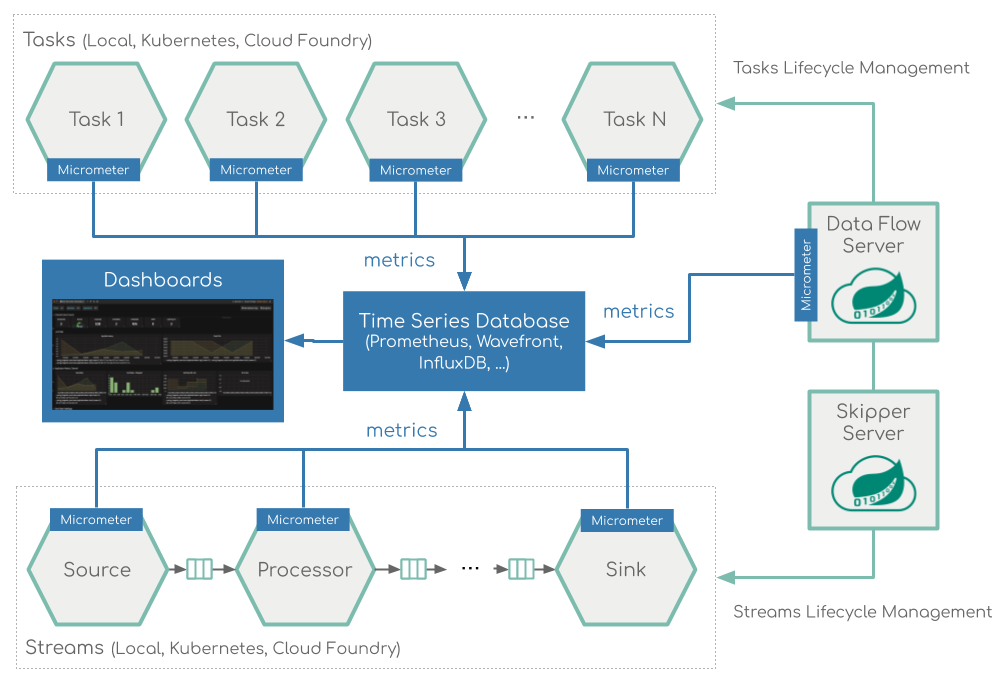
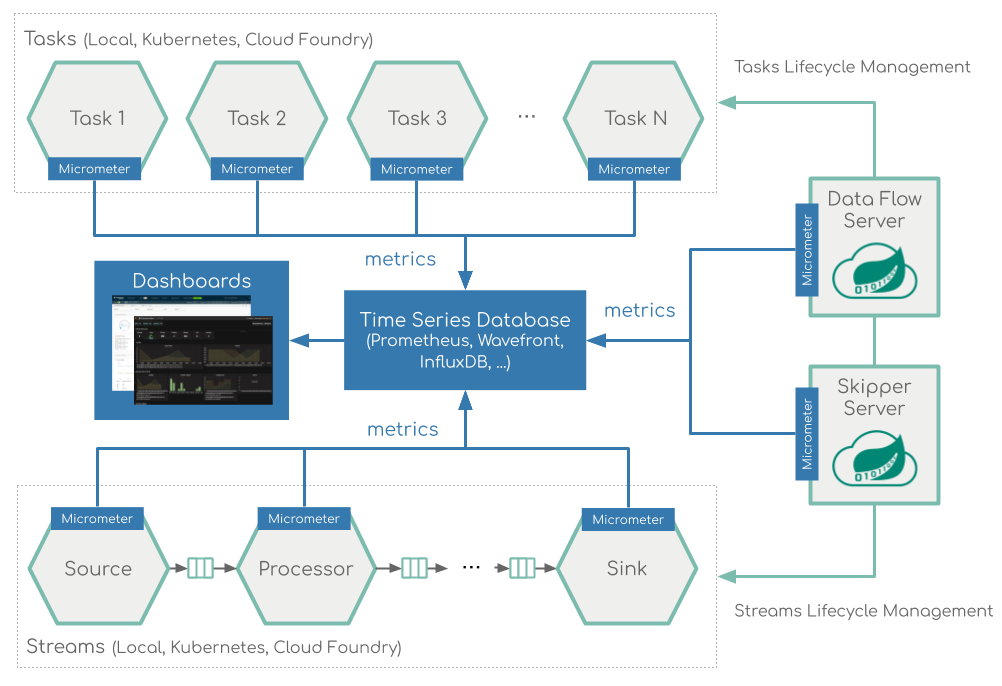
Reflect the changes in the gh-3965
- Introduce server monitoring docs
  - Simplify the monitoring configuration (leverage the configuration replication)

 Resolves #286

diff --git a/content/documentation/pages/5-feature-guides/1-general/2-server-monitoring.md b/content/documentation/pages/5-feature-guides/1-general/2-server-monitoring.md
@@ -1,24 +1,18 @@
 ---
-path: 'feature-guides/streams/monitoring/'
-title: 'Stream Monitoring'
-description: 'Monitoring streaming data pipelines with Prometheus and InfluxDB'
+path: 'feature-guides/general/monitoring/'
+title: 'Server Monitoring'
+description: 'Monitoring Data Flow and Skipper servers'
 ---
 
-# Stream Monitoring with Prometheus, Wavefront and InfluxDB
+# Server Monitoring with Prometheus, Wavefront and InfluxDB
 
-This section describes how to monitor the applications that were deployed as part of a Stream data pipeline. The setup for each platform is different, but the general architecture is the same across all the platforms.
+This section describes how to monitor the Spring Cloud Data Flow and Spring Cloud Skipper Servers. The setup for each platform is different, but the general architecture is the same across all the platforms.
 
-The Data Flow metrics architecture is designed around the [Micrometer](https://micrometer.io/) library, to provide a simple facade over the instrumentation clients for the most popular monitoring systems. See the [Micrometer documentation](https://micrometer.io/docs) for the list of supported monitoring systems. Micrometer powers the delivery of application metrics from Spring Boot. Spring Integration provides [additional micrometer integration](https://docs.spring.io/spring-integration/docs/current/reference/html/system-management.html#micrometer-integration) to expose metrics around message rates and errors, which is critical to the monitoring of deployed streams.
+The Data Flow metrics architecture is designed around the [Micrometer](https://micrometer.io/) library, to provide a simple facade over the instrumentation clients for the most popular monitoring systems. See the [Micrometer documentation](https://micrometer.io/docs) for the list of supported monitoring systems.
 
-All Spring Cloud [Stream App Starters](https://docs.spring.io/spring-cloud-dataflow/docs/current/reference/htmlsingle/#applications) and [Stream Applications](https://github.com/spring-cloud/stream-applications) are pre-configured to support three of the most popular monitoring systems, [Prometheus](https://prometheus.io/), [Wavefront](https://www.wavefront.com/) and [InfluxDB](https://www.influxdata.com/). You can declaratively select which monitoring system the deployed applications will use.
-
-To enable support for different monitoring systems, you can [customize the Stream Applications](https://docs.spring.io/spring-cloud-stream-app-starters/docs/current/reference/htmlsingle/#_patching_pre_built_applications) to use a different monitoring system.
+The Data Flow and the Skipper servers are pre-configured to support three of the most popular monitoring systems, [Prometheus](https://prometheus.io/), [Wavefront](https://www.wavefront.com/) and [InfluxDB](https://www.influxdata.com/). You can declaratively select which monitoring system the deployed applications will use.
 
 To help you get started monitoring streams, Data Flow provides [Grafana](https://grafana.com/) dashboards (for Prometheus and InfluxDB) that you can install and customize for your needs. For Wavefront, you can use the Data Flow Integration tile for a rich and comprehensive metrics visualization.
-
-The following image shows the general architecture of how streaming applications are monitored:
-
-![Stream Monitoring Architecture](images/SCDF-stream-metrics-architecture.png)
 
 <!--NOTE-->
 
@@ -26,27 +20,9 @@ Prometheus requires a Service Discovery component to automatically probe the con
 
 <!--END_NOTE-->
 
-#### Data Flow Metric Tags
-
-To allow aggregating metrics per application type and per instance or per stream, the Spring Cloud Stream Application Starters are configured to use the following Micrometer tags:
-
-- `stream.name`: The name of the Stream that contains the applications that send the metrics
-- `application.name`: The name or label of the application that reports the metrics
-- `application.type`: The type (Source, Processor, or Sink) of the application that reports the metrics
-- `application.guid`: Unique instance identifier of the application instance that reports the metrics
-- `application.index`: Application instance ID (when available)
-
-If the Data Flow server is started with the `spring.cloud.dataflow.grafana-info.url` property pointing to your Grafana URL, the Grafana feature is enabled and the Data Flow UI provides you with Grafana buttons that can open a particular dashboard for a given stream, application, or application instance. The following screenshots illustrate these buttons, look for the spiral icon.
-
-![Stream List Monitoring](images/grafana-scdf-ui-buttons-apps.png)
-
-![Runtime Applications Monitoring](images/grafana-scdf-ui-buttons-streams.png)
-
-Choosing between Wavefront, Prometheus, or InfluxDB and installing necessary components is different depending on the platform on which you run. Links to installation instructions are provided in each section below.
-
 ## Local
 
-This section describes how to view application metrics for streams using Prometheus or InfluxDB as the metrics store on your local machine. Wavefront is a cloud offering, but you still can deploy Data Flow locally can point it to a cloud-managed Wavefront monitoring system.
+This section describes how to view server metrics using Prometheus or InfluxDB as the metrics store on your local machine. Wavefront is a cloud offering, but you still can deploy Data Flow locally can point it to a cloud-managed Wavefront monitoring system.
 
 <!--TABS-->
 
@@ -67,19 +43,11 @@ You can access the Grafana dashboard at http://localhost:3000 using the credenti
 
 There are two provisioned dashboards:
 
-- Streams: http://localhost:3000/d/scdf-streams/streams?refresh=10s
-- Applications: http://localhost:3000/d/scdf-applications/applications?refresh=10s
-
-To see the dashboard in action, deploy a simple stream that uses Kafka.
-
-```bash
-dataflow:>app import --uri https://dataflow.spring.io/kafka-maven-latest --force
-dataflow:>stream create stream2 --definition "time --fixed-delay=10 --time-unit=MILLISECONDS | filter --expression=payload.contains('3') | log" --deploy
-```
+- Server: http://localhost:3000/d/scdf-servers/servers?refresh=10s
 
 You should see dashboards similar to those shown in the following image:
 
-![SCDF Grafana Prometheus](images/grafana-prometheus-scdf-applications-dashboard.png)
+![SCDF Grafana Server Prometheus](images/TODO)
 
 <!--Wavefront -->
 

diff --git a/content/documentation/pages/2-concepts/6-monitoring.md b/content/documentation/pages/2-concepts/6-monitoring.md
@@ -1,23 +1,51 @@
 ---
 path: 'concepts/monitoring/'
 title: 'Monitoring'
-description: 'Runtime monitoring of Stream data pipelines'
+description: 'Runtime monitoring of Servers, Stream and Task data pipelines'
 ---
 
 # Monitoring
 
-The Data Flow metrics architecture is designed around the Micrometer library, which is a vendor-neutral application metrics facade, supporting the most popular monitoring systems.
+The Data Flow monitoring architecture helps to deliver application metrics critical to the health and performance of the server infrastructure and the deployed stream and task pipelines.
 
-![Data Flow Stream&Task Monitoring Architecture](images/SCDF-monitoring-architecture.png)
+Designed around the Micrometer library the Data Flow monitoring supports some of the most popular monitoring systems, such as [Prometheus](https://prometheus.io/), [Wavefront](https://www.wavefront.com/) and [InfluxDB](https://www.influxdata.com/).
 
-The Micrometer instrumentation library powers the delivery of application metrics from Spring Boot and includes metrics for message rates and errors, which is critical to the monitoring of deployed streams.
+![Data Flow Servers, Streams & Tasks Monitoring Architecture](images/SCDF-monitoring-architecture.png)
 
-The prebuilt applications are configured to support three of the most popular monitoring systems, Prometheus, Wavefront and InfluxDB. You can declaratively select which monitoring system to use.
+[Wavefront](https://docs.wavefront.com/wavefront_introduction.html) is a high-performance streaming analytics platform that supports 3D observability (metrics, histograms, traces/spans). It scales to very high data ingestion rates and query loads while also collecting data many services and sources across your entire application stack.
 
-To help you get started, Data Flow provides Grafana and Wavefront dashboards that you can customize for your needs.
-You can also opt for the [Wavefront Data Flow Integration Tile](https://www.wavefront.com/integrations/).
+[Prometheus](https://prometheus.io/) is a popular pull-based Time Series Database that pulls the metrics from the target applications with pre-configured endpoints and provides a query language to select and aggregate time series data in real time.
 
-Follow the [Stream Monitoring Feature Guide](%currentPath%/feature-guides/streams/monitoring/) and [Task Monitoring Feature Guide](%currentPath%/feature-guides/batch/monitoring/) for detailed information on how to set up the monitoring infrastructure.
+<!--NOTE-->
+
+The Data Flow architecture employs the [Prometheus-RSocket-Proxy](https://github.com/micrometer-metrics/prometheus-rsocket-proxy) to provide an uniform support of both `long-lived` (streams) and `short-lived` (tasks) applications.
+
+<!--END_NOTE-->
+
+[InfluxDB](https://www.influxdata.com/) is a popular open-source push-based Time Series Database. It supports downsampling, automatically expiring and deleting unwanted data, and backup and restore. Analysis of data is done through an SQL-like query language.
+
+The Data Flow allows you to declaratively select and configure which monitoring system to use. Just apply the Spring Boot [metrics configuration](https://docs.spring.io/spring-boot/docs/current/reference/html/production-ready-features.html#production-ready-metrics-getting-started) to enable and configure the Data Flow monitoring support. Usually you will add the following configurations to your Data Flow and Skipper server configurations:
+
+```
+management.metrics.export.<your-meter-registry>.enabled=true // <1>
+management.metrics.export.<your-meter-registry>.<meter-specific-properties>=... // <2>
+```
+
+- <1> Replace the `<your-meter-registry>` with either, `influx`, `wavefront` or `prometheus`. (Note: in case of prometheus enable the prometheus-rsocket-proxy as well: `management.metrics.export.prometheus.rsocket.enabled=true`).
+
+- <2> Use the Spring Boot/Micrometer meter specific configurations provided for [Wavefront](https://docs.spring.io/spring-boot/docs/current/reference/html/production-ready-features.html#production-ready-metrics-export-wavefront), [InfluxDB](https://docs.spring.io/spring-boot/docs/current/reference/html/production-ready-features.html#production-ready-metrics-export-influx) and [Prometheus](Spring Boot Actuator: Production-ready Features)/[RSocket-Proxy](https://github.com/micrometer-metrics/prometheus-rsocket-proxy).
+
+By default the Micrometer configuration is reused for both the server infrastructure and the data pipeline monitoring.
+
+To help you get started, Data Flow provides [Grafana](https://grafana.com/) and [Wavefront](https://docs.wavefront.com/ui_dashboards.html) dashboards that you can customize.
+
+You can also opt for the [Wavefront Data Flow SaaS](https://www.wavefront.com/integrations/scdf) tile.
+
+For detailed information on how to set up the monitoring infrastructure follow the following feature guides:
+
+- [Servers Monitoring Feature Guide](%currentPath%/feature-guides/general/server-monitoring/)
+- [Stream Monitoring Feature Guide](%currentPath%/feature-guides/streams/monitoring/)
+- [Task Monitoring Feature Guide](%currentPath%/feature-guides/batch/monitoring/)
 
 The following image shows Data Flow with enabled monitoring and Grafana buttons:
 
@@ -35,4 +63,4 @@ Here's Wavefront Stream applications dashboard:
 
 ![Wavefront Stream Application Dashboard](images/SCDF-monitoring-wavefront-applications.png)
 
-Next: visit the [Stream Monitoring Feature Guide](%currentPath%/feature-guides/streams/monitoring/) and [Task Monitoring Feature Guide](%currentPath%/feature-guides/batch/monitoring/) guides for further information on how to set up the Data Flow monitoring infrastructure.
+Next: visit the [Servers Monitoring Feature Guide](%currentPath%/feature-guides/general/server-monitoring/), [Stream Monitoring Feature Guide](%currentPath%/feature-guides/streams/monitoring/) and [Task Monitoring Feature Guide](%currentPath%/feature-guides/batch/monitoring/) guides for further information on how to set up the Data Flow monitoring infrastructure.

diff --git a/content/documentation/pages/1-installation/3-kubernetes/3.kubectl.md b/content/documentation/pages/1-installation/3-kubernetes/3.kubectl.md
@@ -167,8 +167,11 @@ On Minikube, you can obtain the value by running the command `minikube service -
 This configuration is needed for Grafana links to be accessible when accessing the dashboard from a web browser.
 
 ```yml
-grafana-info:
-  url: 'https://grafana:3000'
+spring:
+  cloud:
+    dataflow:
+      metrics.dashboard:
+        url: 'https://grafana:3000'
 ```
 
 <!--END_TIP-->
@@ -178,29 +181,20 @@ The default Grafana dashboard credentials are a username of `admin` and a passwo
 In the event that you would not like to deploy Prometheus and Grafana for metrics and monitoring, you should remove the following section of `src/kubernetes/server/server-config.yaml`:
 
 ```yaml
-applicationProperties:
-  stream:
-    management:
-      metrics:
-        export:
-          prometheus:
-            enabled: true
-            rsocket:
-              enabled: true
-              host: prometheus-proxy
-              port: 7001
-  task:
-    management:
-      metrics:
-        export:
-          prometheus:
-            enabled: true
-            rsocket:
-              enabled: true
-              host: prometheus-proxy
-              port: 7001
-grafana-info:
-  url: 'https://grafana:3000'
+management:
+  metrics:
+    export:
+      prometheus:
+        enabled: true
+        rsocket:
+          enabled: true
+          host: prometheus-proxy
+          port: 7001
+spring:
+  cloud:
+    dataflow:
+      metrics.dashboard:
+        url: 'https://grafana:3000'
 ```
 
 #### Wavefront
@@ -271,49 +265,25 @@ data:
 Changing the values of `uri` and `source` to those matching your setup.
 The `api-token` value will be automatically resolves from the secret.
 
-To enable Wavefront for deployed streams, modify the file `src/kubernetes/server/server-config.yaml` making the following additions:
+By default, the above configuration will be applied automatically to the deployed Streams and Tasks as well and metrics from them will be sent to Wavefront. Use the `applicationProperties.stream.*` and `applicationProperties.task.*` to alter the defaults.
 
-```yaml
+To enable Wavefront for Spring Cloud Skipper Server, mirror the Data Flow configuration to the Skipper's configuration file: `src/kubernetes/skipper/skipper-config-{kafka|rabbit}.yaml` and add the `wavefront-api` volume to the `src/kubernetes/skipper/skipper-deployment.yaml`.
+
+<!--TIP-->
+
+You should replace the `url` attribute value shown in the following example in `src/kubernetes/server/server-config.yaml` to reflect the address and port the Wavefront dashboards are running on.
+This configuration is needed for Wavefront links to be accessible when accessing the dashboard from a web browser.
+
+```yml
 spring:
   cloud:
     dataflow:
-      applicationProperties:
-        stream:
-          management:
-            metrics:
-              export:
-                wavefront:
-                  enabled: true
-                  api-token: ${wavefront-api-token}
-                  uri: https://yourwfuri.wavefront.com
-                  source: yoursourcename
+      metrics.dashboard:
+        url: 'https://yourwfuri.wavefront.com'
+        type: 'WAVEFRONT'
 ```
 
-Changing the values of `uri` and `source` to those matching your setup.
-The `api-token` value will be automatically resolves from the secret.
-
-To enable Wavefront for deployed tasks, modify the file `src/kubernetes/server/server-config.yaml` making the following additions:
-
-```yaml
-spring:
-  cloud:
-    dataflow:
-      applicationProperties:
-        task:
-          management:
-            metrics:
-              export:
-                wavefront:
-                  enabled: true
-                  api-token: ${wavefront-api-token}
-                  uri: https://yourwfuri.wavefront.com
-                  source: yoursourcename
-```
-
-Changing the values of `uri` and `source` to those matching your setup.
-The `api-token` value will be automatically resolves from the secret.
-
-With this configuration in place, after the Spring Cloud Data Flow server is started metrics from the configured items will be sent to Wavefront.
+<!--END_TIP-->
 
 ### Create Data Flow Role Bindings and Service Account
 

diff --git a/content/documentation/pages/1-installation/1-local/2-docker-customize.md b/content/documentation/pages/1-installation/1-local/2-docker-customize.md
@@ -63,7 +63,7 @@ The `docker-compose-prometheus.yml` configurations expose the following containe
 | 3000       | 3000            | Grafana server port. Use it to reach the Grafana dashboard http://localhost:3000                                                               |
 | 9096       | 9096            | Prometheus RSocket Proxy (Spring Boot) Server Port                                                                                             |
 | 7001       | 7001            | Prometheus RSocket Proxy TCP accept port. Stream and Task application can be configured to use this port to report their metrics to the proxy. |
-| 8081       | 8081            | Prometheus RSocket Proxy WebSocket port. Stream and Task application can be configured to use this port to report their metrics to the proxy.  |
+| 8086       | 8086            | Prometheus RSocket Proxy WebSocket port. Stream and Task application can be configured to use this port to report their metrics to the proxy.  |
 
 <!--NOTE-->
 

diff --git a/content/documentation/pages/1-installation/3-kubernetes/2-helm.md b/content/documentation/pages/1-installation/3-kubernetes/2-helm.md
@@ -890,4 +890,4 @@ Per [NodePort](https://kubernetes.io/docs/concepts/services-networking/service/#
 
 ## Monitoring
 
-To learn more about the monitoring experience in Data Flow using Prometheus running on Kubernetes, please refer to the [Stream Monitoring](%currentPath%/feature-guides/streams/monitoring/#kubernetes) feature guide.
+To learn more about the monitoring experience in Data Flow using Prometheus running on Kubernetes, please refer to the [Stream Monitoring](%currentPath%/feature-guides/streams/monitoring/#kubernetes) or [Task Monitoring](%currentPath%/feature-guides/batch/monitoring/#kubernetes) guides.
